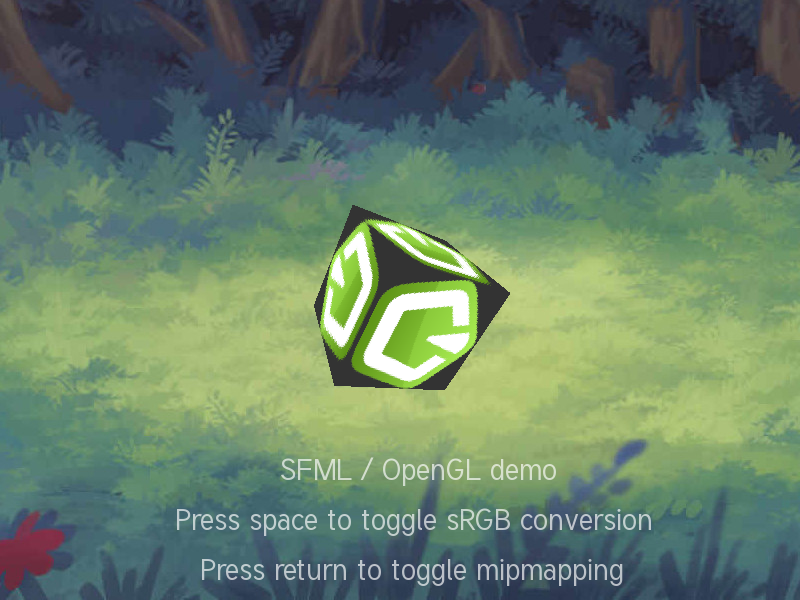
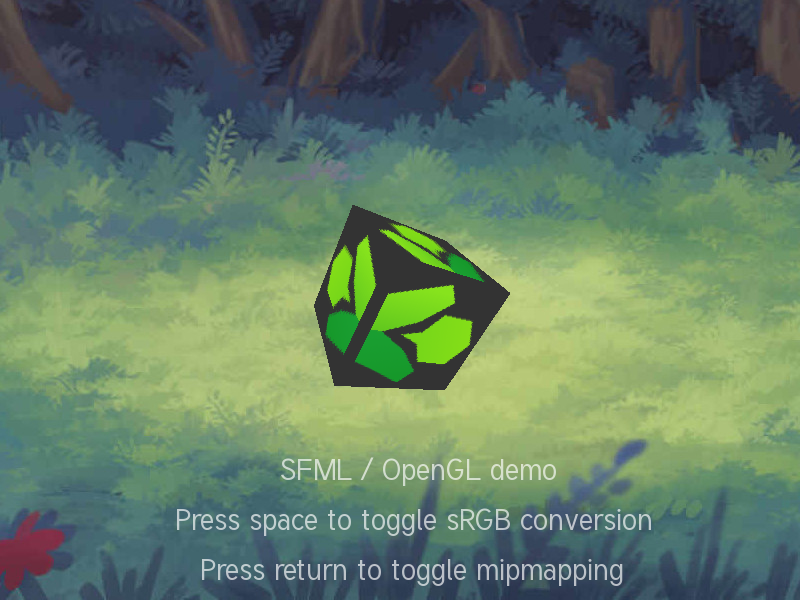
Use current sfml.js branding on the official OpenGL cube

Changed region(s): [[0.375, 0.36, 0.625, 0.66]]

diff --git a/examples/official/README.ja.md b/examples/official/README.ja.md
@@ -302,6 +302,7 @@ FTP／SFTP のダウンロードや録音の保存先には、一時ディレク
 - Window は `koffi` でシステム OpenGL のエクスポート関数を呼び出します。元の 6 色の頂点、毎秒 50／30／90 度の 3 軸回転、サイズに追従する透視投影を保持します。頂点用の安定したネイティブメモリはウィンドウを閉じてから解放し、サイズがゼロの間は描画を休止します。
 
 - OpenGL は `koffi` で元の位置／UV 頂点を描画し、SFML の背景と文字はそれぞれ GL 状態を保存・復元します。Enter はテクスチャの再読み込みまたは mipmap 生成、Space は新しい sRGB 設定でウィンドウと背景を再作成します。mipmap と sRGB の対応はドライバーによります。
+  立方体には現在の [sfml.js シンボル](../../assets/branding/sfml-js-symbol-pentagon.svg) を 256 × 256 PNG に変換し、元の濃い灰色の背景と合成したテクスチャを使用します。
 
 残りの 4 サンプル（`android`、`cocoa`、`vulkan`、`win32`）は未移植です。
 
@@ -315,7 +316,7 @@ OpenGL の画像とログは `official-opengl-linux` に保存します。背景
 
 ## 出典とライセンス
 
-[provenance.json](provenance.json) にコミット、C++ ソースのハッシュ、変更していない全 56 素材の SHA-256 を記録しています。
+[provenance.json](provenance.json) にコミット、C++ ソースのハッシュ、未変更の 55 素材の SHA-256、および差し替えた OpenGL ロゴの出典と変換方法を記録しています。
 
 - SFML ソース：[zlib ライセンス](SFML-LICENSE.md)。
 - 素材と作者：[asset_licenses.md](asset_licenses.md)。

diff --git a/examples/official/README.md b/examples/official/README.md
@@ -329,6 +329,9 @@ For FTP/SFTP downloads and saved recordings, enter a temporary or chosen output 
   and text drawing each save and restore GL state. Enter reloads or mipmaps
   the cube texture; Space recreates the window and background with the new
   sRGB request. Mipmapping and sRGB depend on the graphics driver.
+  Its cube texture uses the current
+  [sfml.js symbol](../../assets/branding/sfml-js-symbol-pentagon.svg),
+  rasterized to 256 × 256 over the original dark-gray background.
 
 Four examples remain unported: `android`, `cocoa`, `vulkan`, `win32`.
 
@@ -360,7 +363,8 @@ actual sRGB support is logged. Its documentation screenshot is from macOS.
 ## Sources and licenses
 
 [provenance.json](provenance.json) records the upstream commit, C++ source
-hashes and SHA-256 hashes of all 56 unchanged resource files.
+hashes and SHA-256 hashes of 55 unchanged resource files, plus the source
+and conversion details for the adapted OpenGL logo texture.
 
 - SFML source: [zlib license](SFML-LICENSE.md).
 - Upstream assets and their authors: [asset_licenses.md](asset_licenses.md).
